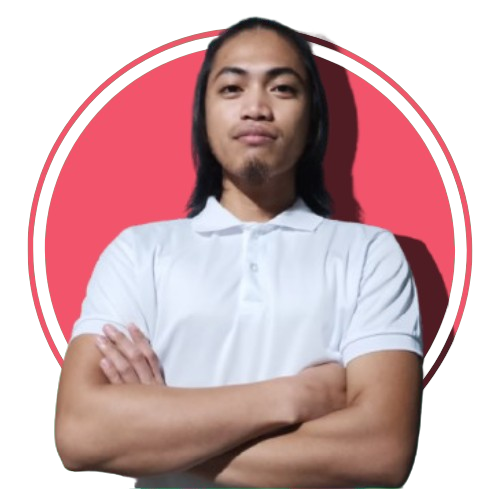
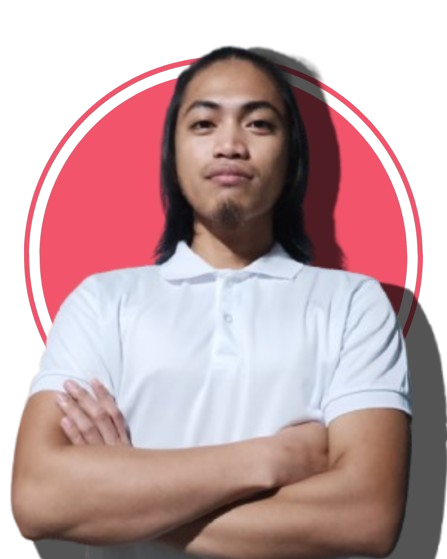
Final editing including animations
spin hover and profile changing

diff --git a/script/profileContainer.js b/script/profileContainer.js
@@ -1,38 +1,62 @@
-export function profile(){
-   const resources = {
-        img: "Dev_Image.png",
-        Devname: "Robert Magno",
-        aboutMe: "Hi, I am Robert. A Web Designer and Application Developer"
-    };
-    const icons = {
-        facebook: "./images/icons/facebook.png",
-        instagram: "./images/icons/instagram.png",
-        twitter: "./images/icons/tiktok.png",
-        whatsapp: "./images/icons/whatsapp.png"
-    }
+export function profile() {
+  const resources = {
+      img: "Dev_Image.png",
+      Devname: "Robert Magno",
+      aboutMe: "Hi, I am Robert. A Web Designer and Application Developer",
+      newImg: "MagnoRobert.png"
+  };
 
-    const profile = document.getElementById('profile-con');
-    profile.innerHTML = `
-        <img src="./images/${resources.img}" alt="" class="profile-pic">
-          <h3 class="name">${resources.Devname}</h3>
-          <p class="short-about-me">${resources.aboutMe}</p>
+  const icons = {
+      facebook: "./images/icons/facebook.png",
+      instagram: "./images/icons/instagram.png",
+      twitter: "./images/icons/tiktok.png",
+      whatsapp: "./images/icons/whatsapp.png"
+  };
 
-          <nav class="social-media-nav">
-            <ul>
-              <li>
-                <a href="https://www.facebook.com/profile.php?id=100008716215080&mibextid=ZbWKwL" target="_blank"><img src="${icons.facebook}" alt="fb-icon"></a>        
-              </li>
-              <li>
-                <a href="https://www.instagram.com/rawbeehurt/profilecard/?igsh=MWxxZjZscjB1aWh5OA==" target="_blank"><img src="${icons.instagram}" alt="insta-icon" ></a>
-              </li>
-              <li>
-                <a href="https://www.tiktok.com/@stewie.griffin841?_t=8rSnsZ9k7Tc&_r=1" target="_blank"><img src="${icons.twitter}" alt="tiktok-icon"></a>
-              </li>
-              <li>
-                <a href="https://wa.me/639266495922" target="_blank"><img src="${icons.whatsapp}" alt="whatsapp-icon"></a>
-              </li>
-            </ul>
-          </nav>
-    `;
+  const images = [`./images/${resources.newImg}`, `./images/${resources.img}`];
 
-};
+  const profile = document.getElementById('profile-con');
+  profile.innerHTML = `
+      <img src="" alt="" class="profile-pic" id="profile-pic">
+      <h3 class="name">${resources.Devname}</h3>
+      <p class="short-about-me">${resources.aboutMe}</p>
+
+      <nav class="social-media-nav">
+          <ul>
+              <li>
+                  <a href="https://www.facebook.com/profile.php?id=100008716215080&mibextid=ZbWKwL" target="_blank">
+                      <img src="${icons.facebook}" alt="fb-icon">
+                  </a>
+              </li>
+              <li>
+                  <a href="https://www.instagram.com/rawbeehurt/profilecard/?igsh=MWxxZjZscjB1aWh5OA==" target="_blank">
+                      <img src="${icons.instagram}" alt="insta-icon">
+                  </a>
+              </li>
+              <li>
+                  <a href="https://www.tiktok.com/@stewie.griffin841?_t=8rSnsZ9k7Tc&_r=1" target="_blank">
+                      <img src="${icons.twitter}" alt="tiktok-icon">
+                  </a>
+              </li>
+              <li>
+                  <a href="https://wa.me/639266495922" target="_blank">
+                      <img src="${icons.whatsapp}" alt="whatsapp-icon">
+                  </a>
+              </li>
+          </ul>
+      </nav>
+  `;
+
+  let currentIndex = 0;
+  const profilePic = document.getElementById('profile-pic');
+
+   // Change the image every 5 seconds with dissolve effect
+   setInterval(() => {
+      profilePic.style.opacity = 0;
+      setTimeout(() => {
+          currentIndex = (currentIndex + 1) % images.length; 
+          profilePic.src = images[currentIndex];
+          profilePic.style.opacity = 1; 
+      }, 500);
+    }, 6000); // Change every 5 seconds
+}

diff --git a/style/profile.css b/style/profile.css
@@ -1,6 +1,7 @@
 @import url('global.css');
 
 .profile-container{
+  min-height: 80vh;
   padding: 2.3rem 10%;
   border-radius: 16px;
   background-color: var(--primary-color);
@@ -10,11 +11,25 @@
 }
 
 .profile-container .profile-pic{
-  border-radius: 16px;
+  border-radius: 50%;
   margin-bottom: 1.5rem;
   max-width: 28rem;
-  min-width: 18rem;
+  min-width: 16rem;
+  animation: float 3s ease-in-out infinite;
+  transition: opacity 0.5s ease-in-out;
 }
+@keyframes float {
+  0% {
+    transform: translateY(0);
+  }
+  50% {
+      transform: translateY(-15px); /* Moves up */
+  }
+  100% {
+      transform: translateY(0); /* Moves back down */
+  }
+}
+
 
 .profile-container .name{
   text-align: center;
@@ -28,6 +43,7 @@
 .profile-container .short-about-me{
   color: var(--pastel-color);
   font-size: 1rem;
+  text-align: center;
   font-weight: 600;
   opacity: 0.7;
   line-height: 1.2rem;
@@ -45,10 +61,10 @@
 .profile-container .social-media-nav ul li a img{
   margin-top: 1.2rem;
   max-width: 1.8rem;
-  transition: transform 0.3s ease-in-out;
+  transition: transform 0.4s ease-in-out;
 }
 .profile-container .social-media-nav ul li a img:hover {
-  transform: scale(1.4);
+  transform: scale(1.4) rotate(360deg);
 }
 
 @media(width >= 1000px){

diff --git a/style/secondpage.css b/style/secondpage.css
@@ -124,7 +124,7 @@ h3 {
 
     .inner-box2 {
         padding: 2rem;
-        width: 90%;
+        width: 100%;
     }
 
     #about-me-div {
@@ -151,6 +151,9 @@ h3 {
 }
 
 @media (max-width: 480px) {
+    body {
+        padding: 0;
+    }
     #secondPage {
         padding: 0;
     }
